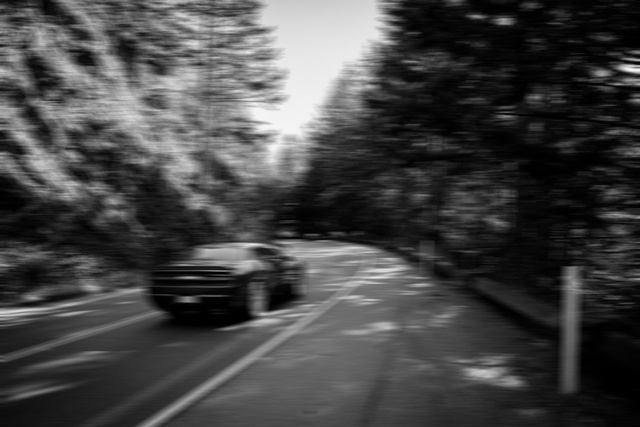
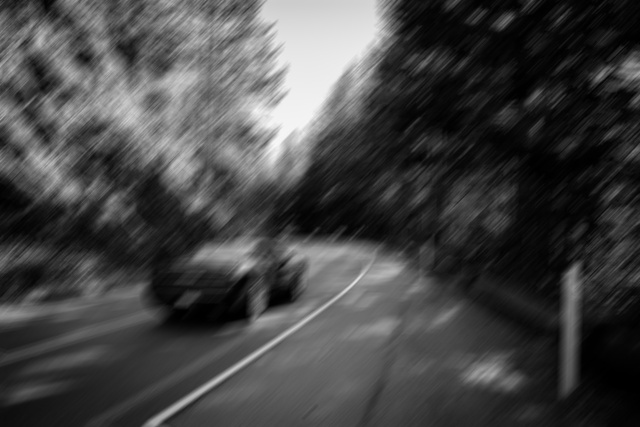
three kinds of blur done

diff --git a/demotion_blur/demotion_blur.py b/demotion_blur/demotion_blur.py
@@ -7,7 +7,10 @@ size = 15
 
 # generating the kernel
 kernel_motion_blur = np.zeros((size, size))
-kernel_motion_blur[int((size-1)/2), :] = np.ones(size)
+for y in range(size):
+    #kernel_motion_blur[ int((size-1)/2), y ] = 1 # left to right
+    #kernel_motion_blur[ y, int((size-1)/2) ] = 1 # top to bottom
+    kernel_motion_blur[ y, size-y-1 ] = 1 # top right to bottom left
 kernel_motion_blur = kernel_motion_blur / size
 print(kernel_motion_blur)
 
@@ -15,3 +18,4 @@ print(kernel_motion_blur)
 blurred = cv2.filter2D(img, -1, kernel_motion_blur)
 
 cv2.imwrite('images/output_img/blur_grey_trees.jpg', blurred)
+
